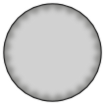
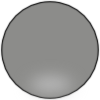
Improve graphic code a little

diff --git a/sim-viewer.py b/sim-viewer.py
@@ -33,6 +33,12 @@ import time, os
 # - add detailed information on the Node
 
 # pyglet related code
+
+# common colors obtained by subtracting existing ones
+GREEN = (50, 200, 50)
+BLUE = (200, 50, 50)
+RED = (50, 50, 200)
+
 import pyglet
 from pyglet.window import key, mouse
 
@@ -42,21 +48,13 @@ pyglet.resource.reindex()
 batch = pyglet.graphics.Batch()
 
 on_resize_event_obj = []
-# TODO: remove the following code
-fps_display = pyglet.clock.ClockDisplay()
 
 sensor_map = None
-
-def center_image(image):
-    image.anchor_x = image.width/2
-    image.anchor_y = image.height/2
 
 @sim_window.event
 def on_draw():
     sim_window.clear()
     batch.draw()
-    # TODO: remove the following code
-    fps_display.draw()
 
 @sim_window.event
 def on_key_press(symbol, modifiers):
@@ -116,6 +114,12 @@ class SensorNode(pyglet.sprite.Sprite):
         self.anchor_x = self.width/2
         self.anchor_y = self.height/2
 
+class NodeStatus(pyglet.sprite.Sprite):
+    def __init__(self, *args, **kwargs):
+        super(NodeStatus, self).__init__(img=pyglet.resource.image('status.png'),
+                                         *args[1:],
+                                         **kwargs)
+
 class Status():
     pass
 
@@ -137,7 +141,8 @@ class SensorMap(object):
         self.node_scale = 0.4
         self.nodes = []
         self.nodes_img = []
-        self.labels = []
+        self.nodes_status = []
+        self.nodes_label = []
         self.view_scale = 1
         self.view_trans_x = 0
         self.view_trans_y = 0
@@ -146,13 +151,16 @@ class SensorMap(object):
         self.nodes.append(node)
         sensor_node = SensorNode(batch=batch)
         sensor_node.scale=self.node_scale
+        sensor_status = NodeStatus(batch=batch)
+        sensor_status.scale=self.node_scale
         label = pyglet.text.Label(text=node.identifier,
                                   anchor_x='center',
                                   anchor_y='center',
                                   color=(0,0,0,255),
                                   batch=batch)
         self.nodes_img.append(sensor_node)
-        self.labels.append(label)
+        self.nodes_label.append(label)
+        self.nodes_status.append(sensor_status)
         self.compute_bounding_box()
 
     def compute_bounding_box(self):
@@ -169,6 +177,13 @@ class SensorMap(object):
                 y_max = node.y
 
         self.x_min, self.y_min, self.x_max, self.y_max = x_min, y_min, x_max, y_max
+
+    def node_change_color(self, identifier, color):
+        for (i, node) in enumerate(self.nodes):
+            if node.identifier == identifier:
+                print "found it"
+                self.nodes_img[i].color = color
+                break
 
     def reset_view(self):
         self.view_scale = 1
@@ -198,16 +213,18 @@ class SensorMap(object):
 
     def node_scale_up(self):
         self.node_scale += 0.05
-        for node in self.nodes_img:
-            node.scale = self.node_scale
+        for (i, node) in enumerate(self.nodes):
+            self.nodes_img[i].scale = self.node_scale
+            self.nodes_status[i].scale = self.node_scale
 
         self.refresh_view_with_params(self.width, self.height)
 
     def node_scale_down(self):
         if self.node_scale > 0.05:
             self.node_scale -= 0.05
-            for node in self.nodes_img:
-                node.scale = self.node_scale
+            for (i, node) in enumerate(self.nodes):
+                self.nodes_img[i].scale = self.node_scale
+                self.nodes_status[i].scale = self.node_scale
 
             self.refresh_view_with_params(self.width, self.height)
         else:
@@ -241,11 +258,17 @@ class SensorMap(object):
 
     def apply_tranform(self, scale, trans_x, trans_y):
         for (i, node) in enumerate(self.nodes):
+            # the nodes image
             self.nodes_img[i].x = self.view_scale * scale * (node.x + trans_x) + self.view_trans_x
             self.nodes_img[i].y = self.view_scale * scale * (node.y + trans_y) + self.view_trans_y
-            # the labels must be inside the node
-            self.labels[i].x = self.view_scale * scale * (node.x + trans_x) + self.view_trans_x + self.nodes_img[i].width // 2
-            self.labels[i].y = self.view_scale * scale * (node.y + trans_y) + self.view_trans_y + self.nodes_img[i].height // 2
+            # the nodes_label must be inside the node
+            self.nodes_label[i].x = self.view_scale * scale * (node.x + trans_x) + self.view_trans_x + self.nodes_img[i].width // 2
+            self.nodes_label[i].y = self.view_scale * scale * (node.y + trans_y) + self.view_trans_y + self.nodes_img[i].height // 2
+            # status is on the upper right corner of the image
+            self.nodes_status[i].x = self.view_scale * scale * (node.x + trans_x) + self.view_trans_x + \
+                                     self.nodes_img[i].width - self.nodes_status[i].width
+            self.nodes_status[i].y = self.view_scale * scale * (node.y + trans_y) + self.view_trans_y + \
+                                     self.nodes_img[i].height - self.nodes_status[i].height
 
     def update(self, dt):
         pass
